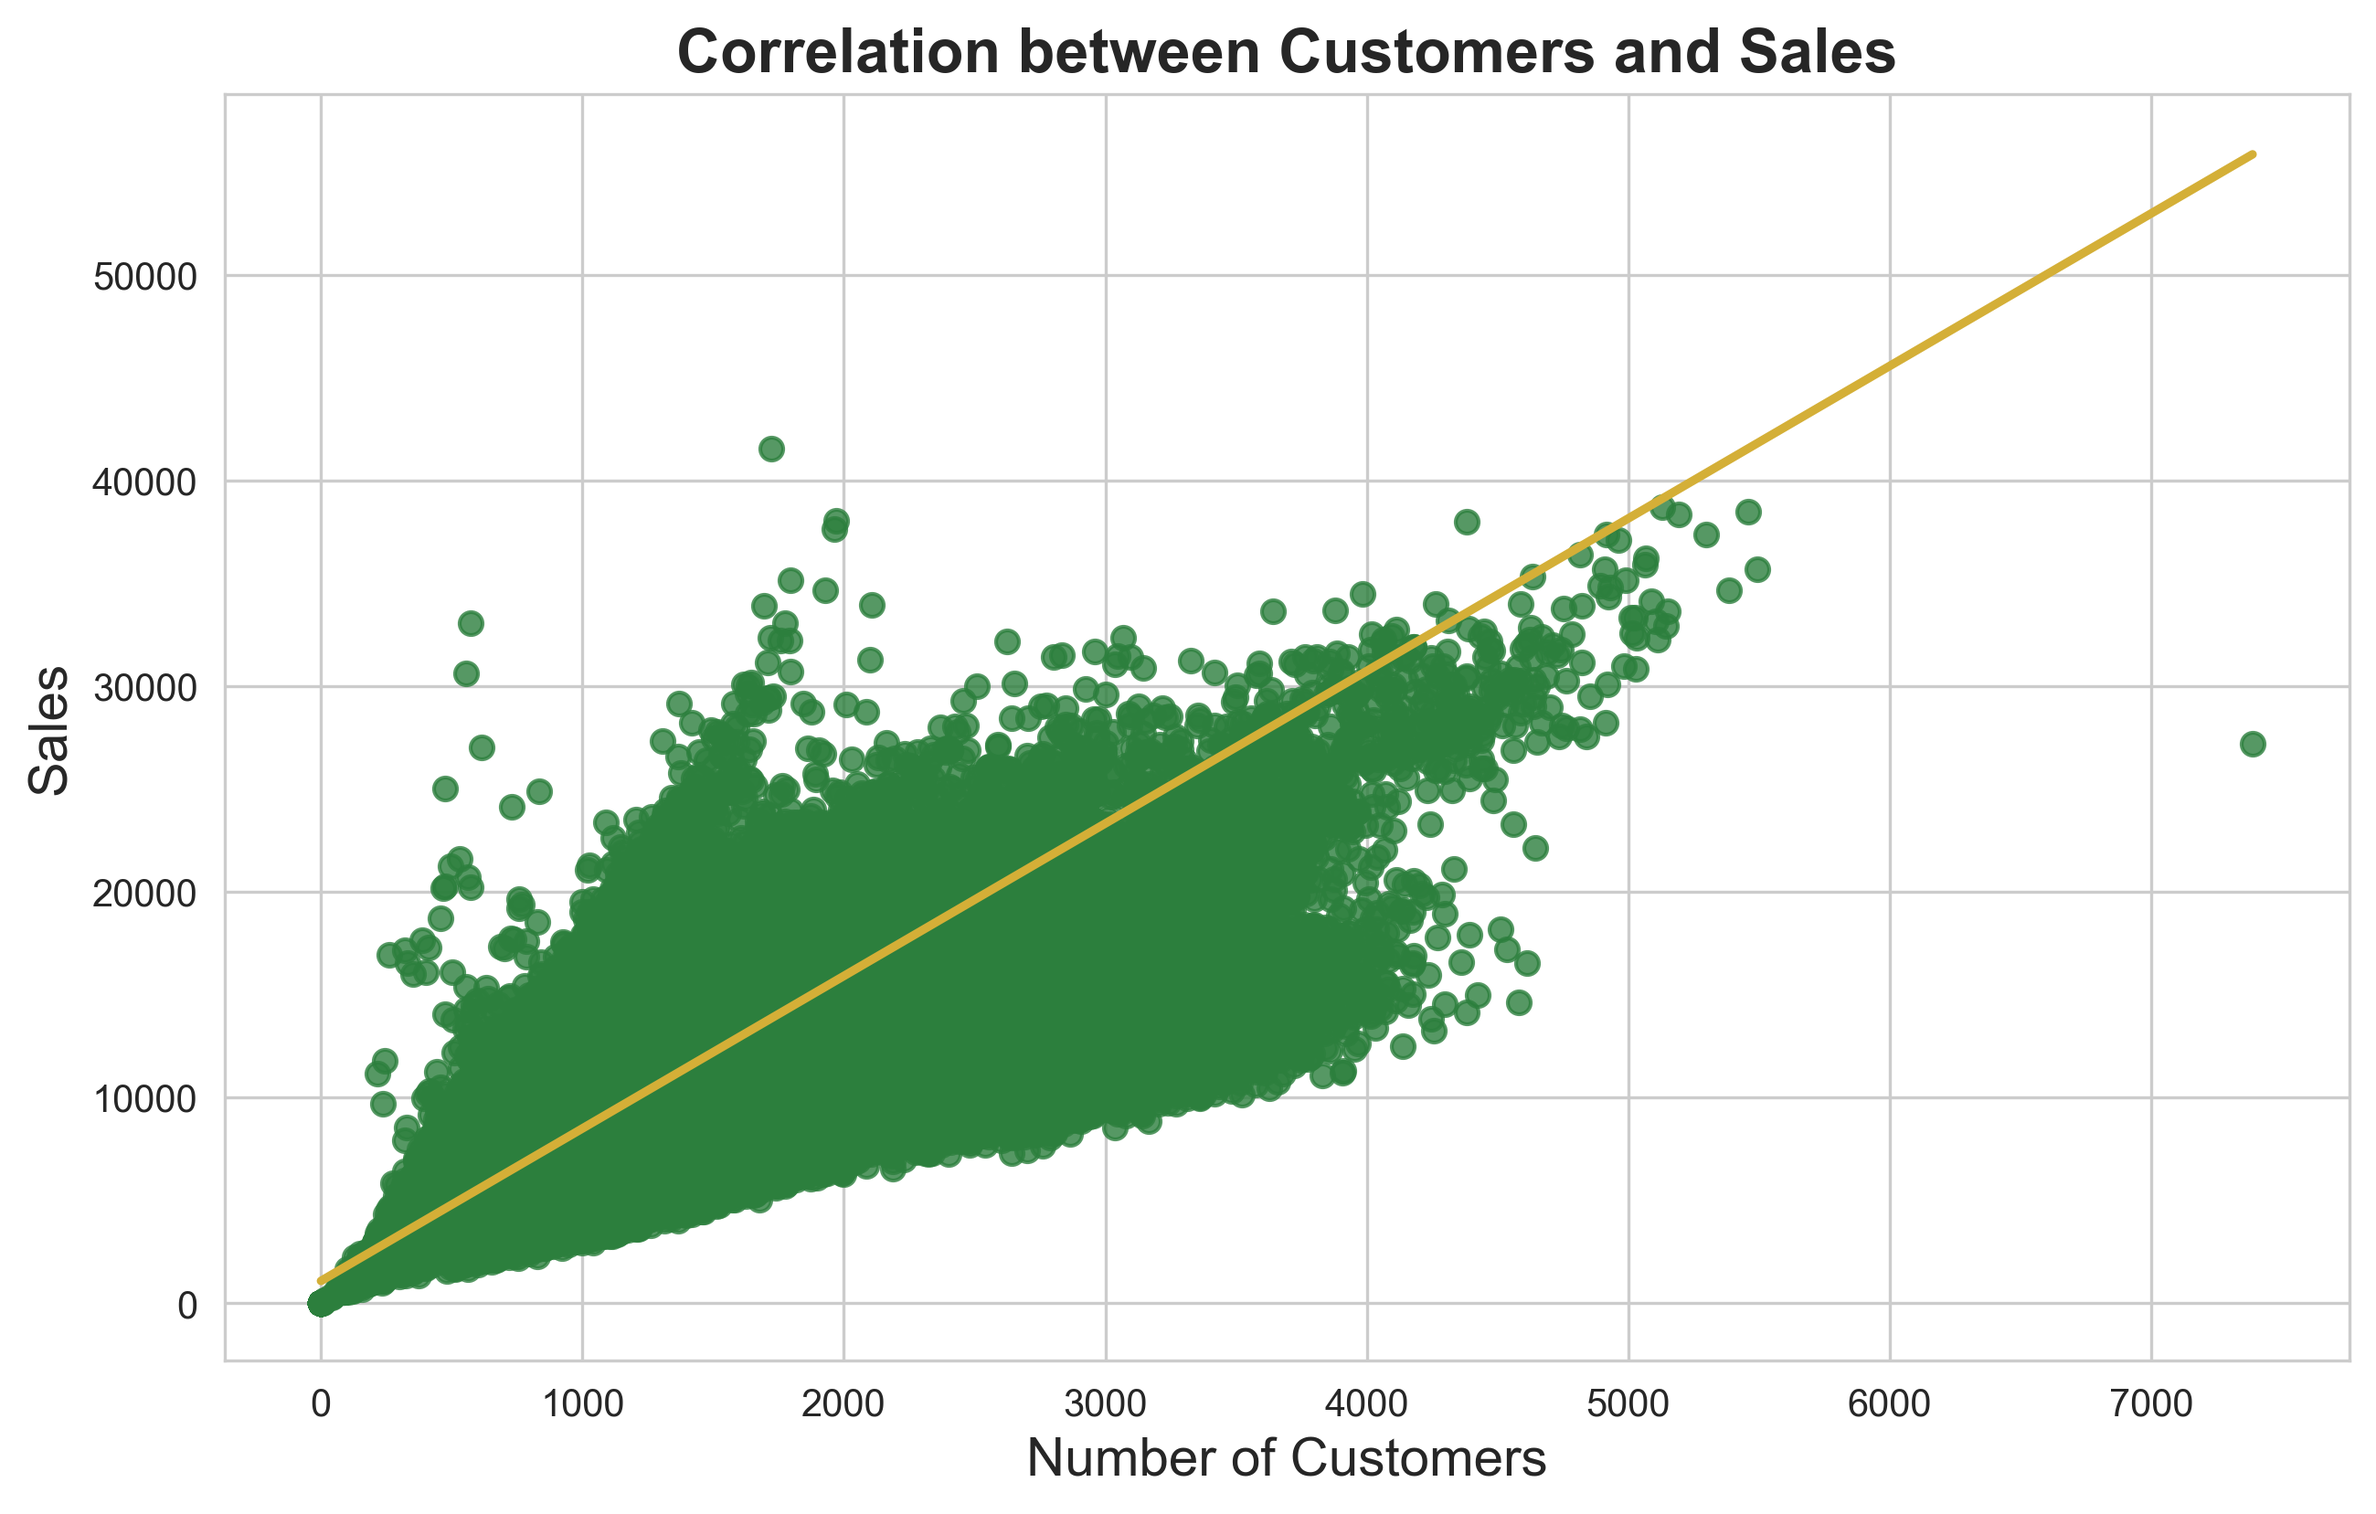
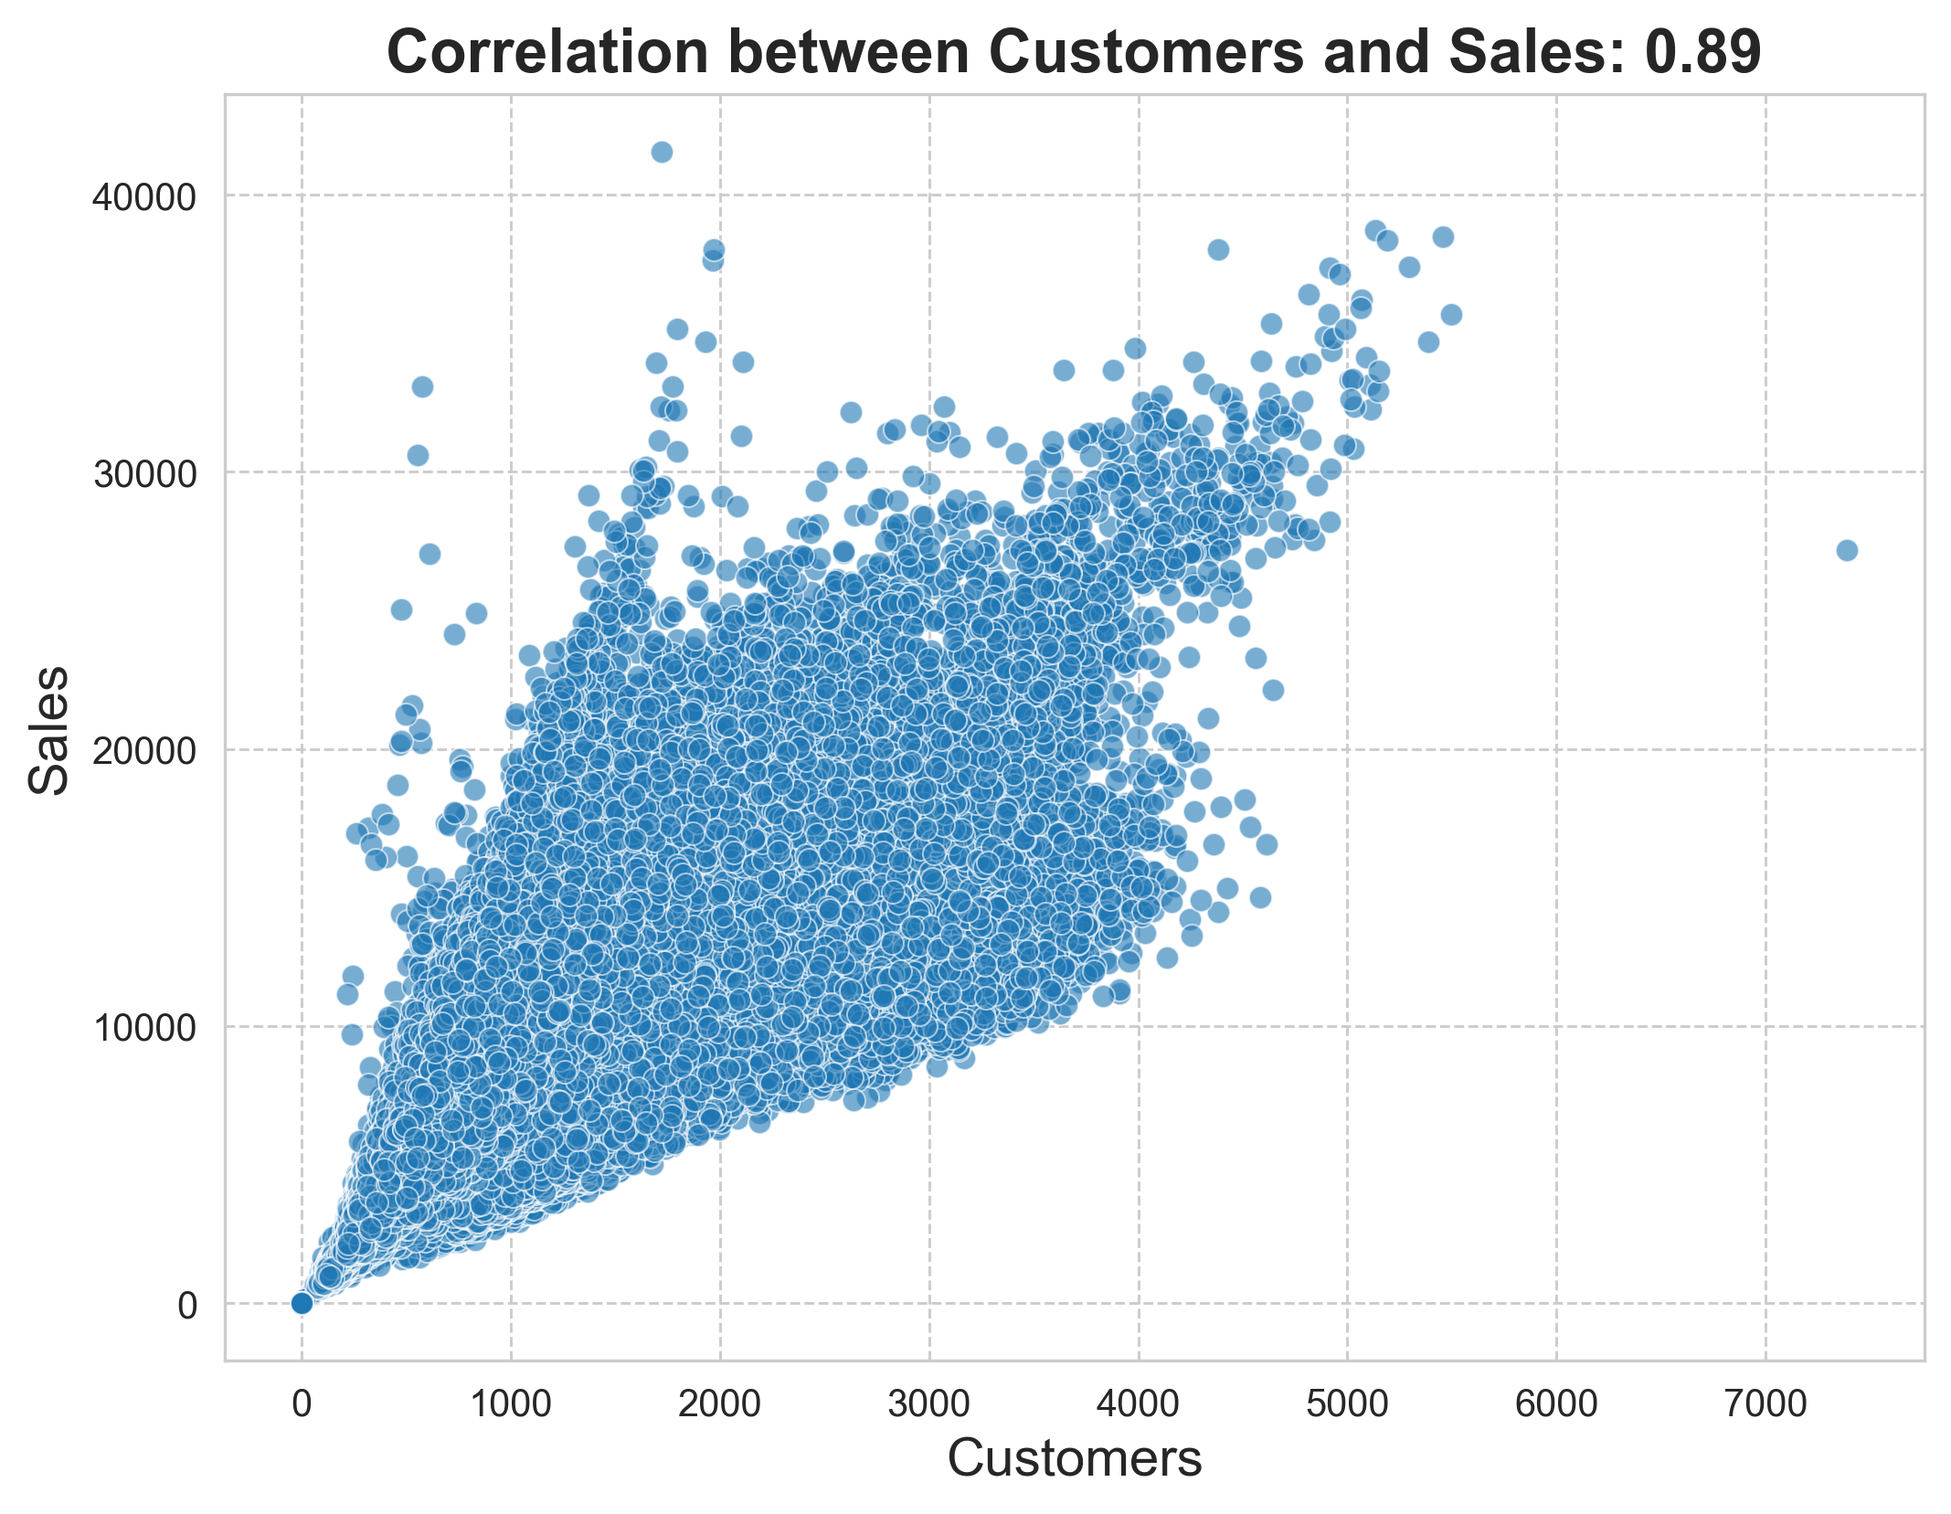
logging added in EDA analysis

diff --git a/Scripts/EDA_Analysis.py b/Scripts/EDA_Analysis.py
@@ -3,163 +3,125 @@ import matplotlib.pyplot as plt
 import seaborn as sns
 from datetime import timedelta
 import os
+import logging
+
+# Set up logging
+logging.basicConfig(level=logging.INFO, format='%(asctime)s - %(levelname)s - %(message)s')
 
 class EDA_Analysis:
     def __init__(self, train_file, test_file):
         # Load train and test datasets
+        logging.info("Loading datasets...")
         self.df_train = pd.read_csv(train_file)
         self.df_test = pd.read_csv(test_file)
-       
+
         # Strip any leading/trailing whitespace from column names
         self.df_train.columns = self.df_train.columns.str.strip()
         self.df_test.columns = self.df_test.columns.str.strip()
         
-        # Print columns for debugging
-        print("Train columns:", self.df_train.columns)
-        print("Test columns:", self.df_test.columns)
-        
+        logging.info("Train columns: %s", self.df_train.columns.tolist())
+        logging.info("Test columns: %s", self.df_test.columns.tolist())
+
         # Clean the Date column and convert to datetime
         self.df_train['Date'] = pd.to_datetime(self.df_train['Date'], errors='coerce')
         self.df_test['Date'] = pd.to_datetime(self.df_test['Date'], errors='coerce')
-        
+
         # Drop rows where Date could not be converted
         self.df_train.dropna(subset=['Date'], inplace=True)
         self.df_test.dropna(subset=['Date'], inplace=True)
-        
+
         # Check if 'Store' is present in both datasets
         if 'Store' in self.df_train.columns and 'Store' in self.df_test.columns:
+            logging.info("Merging datasets on 'Store'...")
             self.df_merged = pd.merge(self.df_train, self.df_test[['Store', 'Promo']], on='Store', how='left')
         else:
+            logging.error("Both datasets must contain the 'Store' column for merging.")
             raise ValueError("Both datasets must contain the 'Store' column for merging.")
 
     def promo_distribution_comparison(self, save_path='../Images/promo_distribution_comparison.png'):
-        """
-        Compares the distribution of 'Promo' between training and test sets,
-        prints the results, visualizes the comparison, and saves the plot.
-        """
-        # Check distribution of 'Promo' in both datasets
-        train_promo_dist = self.df_train['Promo'].value_counts(normalize=True) * 100  # Percentage distribution
-        test_promo_dist = self.df_test['Promo'].value_counts(normalize=True) * 100    # Percentage distribution
+        logging.info("Comparing promo distribution between training and test sets...")
+        train_promo_dist = self.df_train['Promo'].value_counts(normalize=True) * 100
+        test_promo_dist = self.df_test['Promo'].value_counts(normalize=True) * 100
 
         # Print the numerical results
-        print("Numerical Results:")
-        print("Training Promo Distribution (%):\n", train_promo_dist)
-        print("\nTest Promo Distribution (%):\n", test_promo_dist)
+        logging.info("Training Promo Distribution (%):\n%s", train_promo_dist)
+        logging.info("Test Promo Distribution (%):\n%s", test_promo_dist)
 
-        # Set seaborn style for modern aesthetics
         sns.set_style("whitegrid")
-
-        # Create a figure with subplots
         fig, ax = plt.subplots(1, 2, figsize=(14, 7))
+        colors_train = ['#2c7f3d', '#d4af37']
+        colors_test = ['#0b3954', '#ffba08']
 
-        # Define colors for modern visualization
-        colors_train = ['#2c7f3d', '#d4af37']  # Dark green, Gold
-        colors_test = ['#0b3954', '#ffba08']   # Dark blue, Bright yellow
-
-        # Bar plot for training set
         ax[0].bar(train_promo_dist.index, train_promo_dist.values, color=colors_train)
         ax[0].set_title('Promo Distribution in Training Set', fontsize=14, fontweight='bold')
         ax[0].set_xlabel('Promo', fontsize=12)
         ax[0].set_ylabel('Percentage (%)', fontsize=12)
         ax[0].set_ylim(0, 100)
 
-        # Bar plot for test set
         ax[1].bar(test_promo_dist.index, test_promo_dist.values, color=colors_test)
         ax[1].set_title('Promo Distribution in Test Set', fontsize=14, fontweight='bold')
         ax[1].set_xlabel('Promo', fontsize=12)
         ax[1].set_ylabel('Percentage (%)', fontsize=12)
         ax[1].set_ylim(0, 100)
 
-        # Add gridlines and a clean seaborn look
         ax[0].grid(True, which='major', linestyle='--', linewidth=0.7)
         ax[1].grid(True, which='major', linestyle='--', linewidth=0.7)
 
-        # Overall title
         plt.suptitle('Comparison of Promo Distribution Between Training and Test Sets', fontsize=16, fontweight='bold')
 
-        # Adjust layout for better visual appeal
-        plt.tight_layout(rect=[0, 0, 1, 0.95])
-
-        # Save the plot to the specified path
-        os.makedirs(os.path.dirname(save_path), exist_ok=True)  # Create the directory if it doesn't exist
+        os.makedirs(os.path.dirname(save_path), exist_ok=True)
         plt.savefig(save_path, dpi=300, bbox_inches='tight')
-
-        # Show the plot
         plt.show()
+        logging.info("Promo distribution comparison plot saved to %s", save_path)
 
     def analyze_sales_around_holidays(self, save_path='../Images/sales_holidays_comparison.png'):
-        """
-        Analyzes and compares sales behavior before, during, and after holidays,
-        prints the results, visualizes the comparison, and saves the plot.
-        """
-        # Ensure data is sorted by Date
+        logging.info("Analyzing sales around holidays...")
         self.df_train = self.df_train.sort_values('Date')
-        
-        # Extract holidays and dates
         holidays = self.df_train[self.df_train['StateHoliday'] != '0']['Date'].unique()
-        
-        # Create lists to store sales data for each period
+
         before_sales = []
         during_sales = []
         after_sales = []
-        
+
         for holiday in holidays:
-            # Define time windows
             before_start = holiday - timedelta(days=7)
             before_end = holiday - timedelta(days=1)
             after_start = holiday + timedelta(days=1)
             after_end = holiday + timedelta(days=7)
-            
-            # Extract sales data
+
             before_sales.extend(self.df_train[(self.df_train['Date'] >= before_start) & (self.df_train['Date'] <= before_end)]['Sales'])
             during_sales.extend(self.df_train[self.df_train['Date'] == holiday]['Sales'])
             after_sales.extend(self.df_train[(self.df_train['Date'] >= after_start) & (self.df_train['Date'] <= after_end)]['Sales'])
-        
-        # Calculate average sales
+
         avg_before = sum(before_sales) / len(before_sales) if before_sales else 0
         avg_during = sum(during_sales) / len(during_sales) if during_sales else 0
         avg_after = sum(after_sales) / len(after_sales) if after_sales else 0
-        
-        # Print the numerical results
-        print("Numerical Results:")
-        print(f"Average Sales Before Holiday: {avg_before:.2f}")
-        print(f"Average Sales During Holiday: {avg_during:.2f}")
-        print(f"Average Sales After Holiday: {avg_after:.2f}")
-        
-        # Create a DataFrame for visualization
+
+        logging.info("Average Sales Before Holiday: %.2f", avg_before)
+        logging.info("Average Sales During Holiday: %.2f", avg_during)
+        logging.info("Average Sales After Holiday: %.2f", avg_after)
+
         comparison_df = pd.DataFrame({
             'Period': ['Before Holiday', 'During Holiday', 'After Holiday'],
             'Average Sales': [avg_before, avg_during, avg_after]
         })
-        
-        # Set seaborn style for modern aesthetics
+
         sns.set_style("whitegrid")
-        
-        # Create the plot
         plt.figure(figsize=(10, 6))
         sns.barplot(x='Period', y='Average Sales', data=comparison_df, palette='viridis')
         plt.title('Average Sales Before, During, and After Holidays', fontsize=16, fontweight='bold')
         plt.xlabel('Period', fontsize=14)
         plt.ylabel('Average Sales', fontsize=14)
         plt.grid(True, which='both', linestyle='--', linewidth=0.7)
-        
-        # Save the plot to the specified path
-        os.makedirs(os.path.dirname(save_path), exist_ok=True)  # Create the directory if it doesn't exist
-        plt.savefig(save_path, dpi=300, bbox_inches='tight')
 
-        # Show the plot
+        os.makedirs(os.path.dirname(save_path), exist_ok=True)
+        plt.savefig(save_path, dpi=300, bbox_inches='tight')
         plt.show()
+        logging.info("Sales analysis around holidays plot saved to %s", save_path)
 
     def analyze_holiday_sales(self, holiday_dates, window_days=7, save_path='../Images/holiday_sales_comparison.png'):
-        """
-        Analyzes sales behavior around specified holidays.
+        logging.info("Analyzing holiday sales for specified dates...")
         
-        Parameters:
-        holiday_dates (list): List of holiday dates in 'YYYY-MM-DD' format.
-        window_days (int): Number of days before and after the holiday to analyze.
-        save_path (str): Path to save the comparison plot.
-        """
-        # Define a function to compute average sales around each holiday
         def compute_average_sales(df, holiday_date, window_days):
             start_date = holiday_date - timedelta(days=window_days)
             end_date = holiday_date + timedelta(days=window_days)
@@ -174,7 +136,6 @@ class EDA_Analysis:
             
             return avg_sales_before, avg_sales_during, avg_sales_after
         
-        # Collect results for each holiday
         results = []
         for holiday in holiday_dates:
             avg_sales_before, avg_sales_during, avg_sales_after = compute_average_sales(self.df_train, pd.to_datetime(holiday), window_days)
@@ -184,65 +145,57 @@ class EDA_Analysis:
                 'During Holiday': avg_sales_during,
                 'After Holiday': avg_sales_after
             })
+            logging.info("Holiday: %s, Average Sales - Before: %.2f, During: %.2f, After: %.2f", holiday, avg_sales_before, avg_sales_during, avg_sales_after)
         
-        # Convert results to DataFrame for plotting
         results_df = pd.DataFrame(results)
         results_df = results_df.melt(id_vars='Holiday', var_name='Period', value_name='Average Sales')
 
-        # Print numerical results
-        print("Numerical Results:")
-        for result in results:
-            print(f"Holiday: {result['Holiday']}")
-            print(f"  Average Sales Before Holiday: {result['Before Holiday']:.2f}")
-            print(f"  Average Sales During Holiday: {result['During Holiday']:.2f}")
-            print(f"  Average Sales After Holiday: {result['After Holiday']:.2f}\n")
-        
-        # Set seaborn style for modern aesthetics
         sns.set_style("whitegrid")
-
-        # Create bar plot
         plt.figure(figsize=(14, 8))
         sns.barplot(x='Holiday', y='Average Sales', hue='Period', data=results_df, palette='viridis')
         
-        # Titles and labels
         plt.title('Sales Behavior Around Holidays', fontsize=16, fontweight='bold')
         plt.xlabel('Holiday', fontsize=14)
         plt.ylabel('Average Sales', fontsize=14)
         plt.legend(title='Period')
-        
-        # Save and show plot
-        os.makedirs(os.path.dirname(save_path), exist_ok=True)  # Create the directory if it doesn't exist
+
+        os.makedirs(os.path.dirname(save_path), exist_ok=True)
         plt.savefig(save_path, dpi=300, bbox_inches='tight')
         plt.show()
+        logging.info("Holiday sales analysis plot saved to %s", save_path)
 
     def analyze_customers_sales_correlation(self, save_path='../Images/customers_sales_correlation.png'):
-        """
-        Analyzes the correlation between 'Customers' and 'Sales' in the training dataset,
-        prints the correlation coefficient, visualizes the correlation, and saves the plot.
-        """
-        # Check if 'Customers' and 'Sales' columns exist
+        logging.info("Analyzing correlation between Customers and Sales...")
         if 'Customers' not in self.df_train.columns or 'Sales' not in self.df_train.columns:
+            logging.error("Columns 'Customers' and 'Sales' must exist in the training dataset.")
             raise ValueError("Columns 'Customers' and 'Sales' must exist in the training dataset.")
 
-        # Compute the correlation between 'Customers' and 'Sales'
         correlation = self.df_train[['Customers', 'Sales']].corr().loc['Customers', 'Sales']
+        logging.info("Correlation between Customers and Sales: %.4f", correlation)
 
-        # Print the correlation result
-        print(f"Numerical Result: Correlation between Customers and Sales: {correlation:.4f}")
-
-        # Set seaborn style for modern aesthetics
-        sns.set_style("whitegrid")
-
-        # Create a scatter plot with regression line
-        plt.figure(figsize=(10, 6))
-        sns.regplot(x='Customers', y='Sales', data=self.df_train, scatter_kws={'color':'#2c7f3d'}, line_kws={'color':'#d4af37'})
-        
-        # Title and labels
-        plt.title('Correlation between Customers and Sales', fontsize=16, fontweight='bold')
-        plt.xlabel('Number of Customers', fontsize=14)
+        plt.figure(figsize=(8, 6))
+        sns.scatterplot(x='Customers', y='Sales', data=self.df_train, alpha=0.6)
+        plt.title(f'Correlation between Customers and Sales: {correlation:.2f}', fontsize=16, fontweight='bold')
+        plt.xlabel('Customers', fontsize=14)
         plt.ylabel('Sales', fontsize=14)
-        
-        # Save and show plot
-        os.makedirs(os.path.dirname(save_path), exist_ok=True)  # Create the directory if it doesn't exist
+        plt.grid(True, linestyle='--', linewidth=0.7)
+
+        os.makedirs(os.path.dirname(save_path), exist_ok=True)
         plt.savefig(save_path, dpi=300, bbox_inches='tight')
         plt.show()
+        logging.info("Customers vs Sales correlation plot saved to %s", save_path)
+
+    def analyze_sales_trends(self, save_path='../Images/sales_trends.png'):
+        logging.info("Analyzing sales trends over time...")
+        plt.figure(figsize=(14, 7))
+        sns.lineplot(data=self.df_train, x='Date', y='Sales', estimator='mean', ci=None, color='blue')
+        plt.title('Average Sales Trends Over Time', fontsize=16, fontweight='bold')
+        plt.xlabel('Date', fontsize=14)
+        plt.ylabel('Average Sales', fontsize=14)
+        plt.xticks(rotation=45)
+        plt.grid(True, linestyle='--', linewidth=0.7)
+
+        os.makedirs(os.path.dirname(save_path), exist_ok=True)
+        plt.savefig(save_path, dpi=300, bbox_inches='tight')
+        plt.show()
+        logging.info("Sales trends analysis plot saved to %s", save_path)
